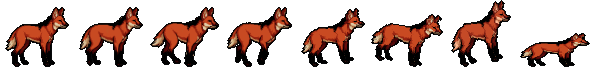
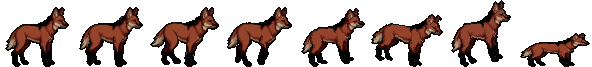
Acabamento das Minas, guará no HUD e chiados novos
- Minas: escoras de madeira com lampião no fundo no lugar das ruínas de castelo,
  torre de elevador com roldana e gaiola caída no lugar da torre de pedra, escora
  velha como lenha e sem pilar rúnico no chão; passos com som de pedra.
- Guará com cor e luz ajustadas à paleta dos bichos, segue um pouco mais atrás e
  aparece no HUD com nome, idade e barra de crescimento.
- Chiado de cobra e urro da Rainha Pálida (ElevenLabs).

diff --git a/js/desenho.js b/js/desenho.js
@@ -10,7 +10,7 @@
   const cam = (D.cam = { x: 0, y: 0, olha: 0 });
   let tempo = 0, noiteK = 0;
   const img = {}; // nome -> imagem
-  const carregaImg = (src, n) => new Promise((ok) => { const i = new Image(); i.onload = () => ok(i); i.onerror = () => { if ((n || 0) < 3) setTimeout(() => carregaImg(src, (n || 0) + 1).then(ok), 700); else { console.warn('faltou', src); ok(null); } }; i.src = src + '?v=23' + (n ? '&t=' + n : ''); });
+  const carregaImg = (src, n) => new Promise((ok) => { const i = new Image(); i.onload = () => ok(i); i.onerror = () => { if ((n || 0) < 3) setTimeout(() => carregaImg(src, (n || 0) + 1).then(ok), 700); else { console.warn('faltou', src); ok(null); } }; i.src = src + '?v=24' + (n ? '&t=' + n : ''); });
 
   D.iniciar = function (canvas) {
     cv = canvas; ctx = cv.getContext('2d');
@@ -113,7 +113,7 @@
   function camadaArvores(par, forca, passo, esc, sem) {
     const R = regiao(), off = cam.x * par, i0 = Math.floor(off / passo) - 2;
     for (let i = i0; i < i0 + Math.ceil(D.VW / passo) + 4; i++) {
-      const r1 = hash(i * 7 + sem), r2 = hash(i * 13 + sem), seca = ['zumbis', 'goblins', 'lobos'].includes(F.atual.regiao); if (R.semArvores) { if (r1 < 0.45) continue; const t2 = tingida(r2 < 0.5 ? 'pilar' : 'pedrao', F.atual.regiao, R.nevoa, forca); if (!t2) continue; const e2 = esc * 2.2 * (0.8 + r1 * 0.5), w2 = Math.round(t2.width * e2), h2 = Math.round(t2.height * e2), x2 = Math.round(i * passo - off + r2 * 90), y2 = Math.round(D.VH * 0.94 - (cam.y - 190) * par * 0.3); g.drawImage(t2, x2 - w2 / 2, y2 - h2, w2, h2); continue; }
+      const r1 = hash(i * 7 + sem), r2 = hash(i * 13 + sem), seca = ['zumbis', 'goblins', 'lobos'].includes(F.atual.regiao); if (R.semArvores) { if (r1 < 0.45) continue; const t2 = r2 < 0.55 ? escora(R, forca, r1 < 0.75) : tingida('pedrao', F.atual.regiao, R.nevoa, forca); if (!t2) continue; const e2 = esc * 2.2 * (0.8 + r1 * 0.5), w2 = Math.round(t2.width * e2), h2 = Math.round(t2.height * e2), x2 = Math.round(i * passo - off + r2 * 90), y2 = Math.round(D.VH * 0.94 - (cam.y - 190) * par * 0.3); g.drawImage(t2, x2 - w2 / 2, y2 - h2, w2, h2); continue; }
       if (r1 < (seca ? 0.5 : 0.12)) continue;
       const nome = r2 < 0.5 && !seca ? 'arvorao' : 'arvore';
       const t = tingida(nome, F.atual.regiao, R.nevoa, forca); if (!t) continue;
@@ -121,6 +121,17 @@
       const x = Math.round(i * passo - off + r2 * 90), y = Math.round(D.VH * 0.94 - (cam.y - 190) * par * 0.3);
       if (r2 * 7 % 1 < 0.5) { g.save(); g.translate(x, 0); g.scale(-1, 1); g.drawImage(t, -w / 2, y - h, w, h); g.restore(); } else g.drawImage(t, x - w / 2, y - h, w, h);
     }
+  }
+  // escora de mina ao longe (duas pernas, travessa, mãos-francesas e às vezes um lampião pendurado)
+  function escora(R, forca, luz) {
+    return guarda('esc' + R.nevoa + forca + luz, 44, 76, (q, w, h) => {
+      const nv = R.nevoa.split(',').map(Number), mix = (c, k) => 'rgb(' + c.map((v, i) => Math.round(v * (1 - forca) + nv[i] * forca * 0.75) * (k || 1) | 0).join(',') + ')';
+      q.fillStyle = mix([62, 45, 32]); q.fillRect(5, 6, 6, h - 6); q.fillRect(w - 11, 6, 6, h - 6); q.fillRect(1, 2, w - 2, 7);
+      q.fillStyle = mix([62, 45, 32], 0.7); q.fillRect(5, 9, 6, 2); q.fillRect(w - 11, 9, 6, 2); q.fillRect(1, 8, w - 2, 1);
+      q.fillStyle = mix([54, 39, 28]); for (let k = 0; k < 9; k++) { q.fillRect(11 + k, 9 + k, 2, 2); q.fillRect(w - 13 - k, 9 + k, 2, 2); }
+      q.fillStyle = mix([80, 60, 42]); q.fillRect(1, 2, w - 2, 1); q.fillRect(5, 6, 1, h - 6); q.fillRect(w - 11, 6, 1, h - 6);
+      if (luz) { q.fillStyle = mix([30, 26, 24]); q.fillRect(w / 2, 9, 1, 13); q.fillRect(w / 2 - 3, 22, 7, 8); q.fillStyle = 'rgba(255,176,90,' + (0.95 - forca * 0.5) + ')'; q.fillRect(w / 2 - 1, 24, 3, 4); q.fillStyle = 'rgba(255,150,70,' + (0.25 - forca * 0.15) + ')'; q.fillRect(w / 2 - 6, 19, 13, 14); }
+    });
   }
   function nevoa(R, a) {
     g.drawImage(guarda('nev' + R.nevoa + a, 2, 128, (q, w, h) => { const gr = q.createLinearGradient(0, 0, 0, h); gr.addColorStop(0, 'rgba(' + R.nevoa + ',0)'); gr.addColorStop(0.7, 'rgba(' + R.nevoa + ',' + a + ')'); gr.addColorStop(1, 'rgba(' + R.nevoa + ',' + a * 0.7 + ')'); q.fillStyle = gr; q.fillRect(0, 0, w, h); }), 0, D.VH * 0.3, D.VW, D.VH * 0.7);
@@ -527,7 +538,7 @@
     if (J.colhidos[c.id] > 0 || c.x < cam.x - 60 || c.x > cam.x + D.VW + 60) return;
     const p = COLETA[c.m];
     if (c.alto) { const b = Math.sin(tempo * 2.5 + c.x) * 1.5; peca('lenha', c.x, c.y + 3, { e: 0.36 }); itemEm(g, c.m, Math.round(c.x - 10), Math.round(c.y - 22 + b), 0.62); }
-    else if (c.m === 'madeira' && F.atual.regiao === 'minas') { prop('pilar', c.x, c.y + 3, { e: 0.55 }); peca('cepo', c.x + 14, c.y + 2, { e: 0.7 }); }
+    else if (c.m === 'madeira' && F.atual.regiao === 'minas') { const es = escora(regiao(), 0.05, false); g.drawImage(es, Math.round(c.x - es.width / 2), Math.round(c.y + 3 - es.height)); peca('cepo', c.x + 14, c.y + 2, { e: 0.7 }); }
     else if (c.m === 'madeira') { prop('arvore', c.x, c.y + 3, { e: 0.8 }); peca('cepo', c.x + 16, c.y + 2, { e: 0.8 }); if (c.talho) { g.fillStyle = '#e8c890'; g.fillRect(Math.round(c.x - 4), Math.round(c.y - 18), 4 + c.talho * 2, 3); } }
     else if (p) { prop(p, c.x, c.y + 2); if (c.m === 'fruta') for (let i = 0; i < 6; i++) { const x = c.x - 14 + hash(c.x + i) * 28, y = c.y - 8 - hash(c.x * 3 + i) * 22; g.fillStyle = '#1a0608'; g.fillRect(x - 1, y - 1, 4, 4); g.fillStyle = '#d83030'; g.fillRect(x, y, 2, 2); } }
     else itemEm(g, c.m, Math.round(c.x - 14), Math.round(c.y - 26), 0.82);
@@ -584,7 +595,25 @@
     if (x + w < cam.x - 10 || x - w > cam.x + D.VW + 10) return;
     g.save(); if (o.a != null) g.globalAlpha = o.a; g.translate(Math.round(x), Math.round(y)); if (o.v) g.scale(-1, 1); g.drawImage(img.casa, p[0], p[1], p[2], p[3], Math.round(-w / 2), -h, w, h); g.restore();
   }
+  // o elevador velho da mina: torre de madeira com roldana, corda partida e a gaiola caída
+  function elevador() {
+    return guarda('elevador', 76, 196, (q, w, h) => {
+      const c = (r, g2, b) => 'rgb(' + r + ',' + g2 + ',' + b + ')';
+      q.fillStyle = c(58, 42, 30); q.fillRect(10, 22, 7, h - 22); q.fillRect(w - 17, 22, 7, h - 22);
+      for (let y = 40; y < h - 20; y += 38) { q.fillRect(8, y, w - 16, 5); q.fillStyle = c(48, 34, 24); for (let k = 0; k < 30; k++) { q.fillRect(17 + k * 1.4, y + 5 + k, 2, 2); } q.fillStyle = c(58, 42, 30); }
+      q.fillStyle = c(84, 62, 42); q.fillRect(10, 22, 1, h - 22); q.fillRect(w - 17, 22, 1, h - 22);
+      q.fillStyle = c(52, 38, 27); q.fillRect(4, 18, w - 8, 7);
+      // roldana
+      q.fillStyle = c(46, 42, 40); q.beginPath(); q.arc(w / 2, 12, 11, 0, Math.PI * 2); q.fill(); q.fillStyle = c(24, 20, 18); q.beginPath(); q.arc(w / 2, 12, 6, 0, Math.PI * 2); q.fill();
+      q.fillStyle = c(96, 88, 80); q.fillRect(w / 2 - 1, 1, 2, 22); q.fillRect(w / 2 - 11, 11, 22, 2);
+      // corda partida
+      q.fillStyle = c(120, 96, 64); q.fillRect(w / 2 + 10, 12, 1, 70); q.fillRect(w / 2 + 9, 82, 3, 2);
+      // gaiola caída de lado no pé da torre
+      q.fillStyle = c(40, 36, 34); q.fillRect(14, h - 22, 34, 3); q.fillRect(14, h - 4, 34, 3); for (let k = 14; k <= 48; k += 6) q.fillRect(k, h - 22, 2, 21);
+    });
+  }
   function lugar(n, x, y, o) {
+    if (n === 'elevador') { const t = elevador(); if (x + 60 < cam.x || x - 60 > cam.x + D.VW) return; g.drawImage(t, Math.round(x - t.width / 2), Math.round(y - t.height)); return; }
     const p = A2.marcos && A2.marcos[n]; if (!p || !img.marcos) return; o = o || {}; const e = o.e || 1, w = Math.round(p[2] * e), h = Math.round(p[3] * e);
     if (x + w < cam.x - 10 || x - w > cam.x + D.VW + 10) return;
     g.save(); g.translate(Math.round(x), Math.round(y)); if (o.v) g.scale(-1, 1); g.drawImage(img.marcos, p[0], p[1], p[2], p[3], Math.round(-w / 2), -h, w, h); g.restore();

diff --git a/index.html b/index.html
@@ -14,7 +14,7 @@
 <link rel="preconnect" href="https://fonts.googleapis.com">
 <link rel="preconnect" href="https://fonts.gstatic.com" crossorigin>
 <link rel="stylesheet" href="https://fonts.googleapis.com/css2?family=Cinzel:wght@500;700;900&family=Crimson+Pro:ital,wght@0,400;0,600;1,400&display=swap">
-<link rel="stylesheet" href="css/jogo.css?v=23">
+<link rel="stylesheet" href="css/jogo.css?v=24">
 <script>
 // se um arquivo do jogo não vier (servidor ocupado), tenta de novo até quatro vezes em vez de travar
 addEventListener('error', function (e) {
@@ -38,6 +38,7 @@ addEventListener('error', function (e) {
       <div class="barra" id="b-sina" hidden><i></i></div>
       <div class="dupla"><i class="ico mini" id="ic-fome"></i><div class="barra" id="b-fome"><i></i></div><div id="h-tocha" hidden><i></i></div></div>
       <div id="h-magias"></div>
+      <div id="h-pet" hidden><span></span><div class="barra" id="b-pet"><i></i></div></div>
       <div id="h-hum" hidden><span></span><div class="barra" id="b-hum"><i></i></div><div class="barra" id="b-hfome"><i></i></div><div class="barra" id="b-laco"><i></i></div></div>
     </div>
   </div>
@@ -124,27 +125,27 @@ addEventListener('error', function (e) {
 <div id="veu"></div>
 <div id="cena" hidden><video id="cena-v" playsinline muted preload="auto"></video><div class="cena-txt"><b id="cena-t"></b><span id="cena-s"></span></div><button id="cena-pula">Pular</button></div>
 
-<script src="assets/barro/barro.js?v=23"></script>
-<script src="assets/barro/gente.js?v=23"></script>
-<script src="assets/floresta/arte.js?v=23"></script>
-<script src="assets/ui/ui.js?v=23"></script>
-<script src="assets/cenas/cenas.js?v=23"></script>
-<script src="js/som.js?v=23"></script>
-<script src="js/dados.js?v=23"></script>
-<script src="js/fase.js?v=23"></script>
-<script src="js/motor.js?v=23"></script>
-<script src="js/bando.js?v=23"></script>
-<script src="js/clima.js?v=23"></script>
-<script src="js/donos.js?v=23"></script>
-<script src="js/lar.js?v=23"></script>
-<script src="js/vila.js?v=23"></script>
-<script src="js/cidade.js?v=23"></script>
-<script src="js/mundo.js?v=23"></script>
-<script src="js/pet.js?v=23"></script>
-<script src="js/desenho.js?v=23"></script>
-<script src="js/vivo.js?v=23"></script>
-<script src="js/menu.js?v=23"></script>
-<script src="js/toque.js?v=23"></script>
-<script src="js/main.js?v=23"></script>
+<script src="assets/barro/barro.js?v=24"></script>
+<script src="assets/barro/gente.js?v=24"></script>
+<script src="assets/floresta/arte.js?v=24"></script>
+<script src="assets/ui/ui.js?v=24"></script>
+<script src="assets/cenas/cenas.js?v=24"></script>
+<script src="js/som.js?v=24"></script>
+<script src="js/dados.js?v=24"></script>
+<script src="js/fase.js?v=24"></script>
+<script src="js/motor.js?v=24"></script>
+<script src="js/bando.js?v=24"></script>
+<script src="js/clima.js?v=24"></script>
+<script src="js/donos.js?v=24"></script>
+<script src="js/lar.js?v=24"></script>
+<script src="js/vila.js?v=24"></script>
+<script src="js/cidade.js?v=24"></script>
+<script src="js/mundo.js?v=24"></script>
+<script src="js/pet.js?v=24"></script>
+<script src="js/desenho.js?v=24"></script>
+<script src="js/vivo.js?v=24"></script>
+<script src="js/menu.js?v=24"></script>
+<script src="js/toque.js?v=24"></script>
+<script src="js/main.js?v=24"></script>
 </body>
 </html>

diff --git a/js/fase.js b/js/fase.js
@@ -83,9 +83,9 @@
       // ruína: escada de pedra quebrada com um baú lá em cima
       ruina(nome, texto, loot) {
         if (y < 25) o.queda(25 - y).plano(4);
-        const x0 = x, yy = y; o.plano(26); o.marco('torre', nome, texto, -9);
+        const x0 = x, yy = y, mina = a.regiao === 'minas'; o.plano(26); o.marco(mina ? 'elevador' : 'torre', nome, texto, -9);
         o.galho(x0 + 4, yy - 4, 4).galho(x0 + 9, yy - 8, 4).galho(x0 + 4, yy - 12, 5);
-        a.decor.push({ n: 'pilar', x: px(x0 + 3), y: 0, c: 0, e: 1 }, { n: 'pilar', x: px(x0 + 13), y: 0, c: 0, e: 0.9 });
+        if (!mina) a.decor.push({ n: 'pilar', x: px(x0 + 3), y: 0, c: 0, e: 1 }, { n: 'pilar', x: px(x0 + 13), y: 0, c: 0, e: 0.9 });
         a.baus.push({ id: a.id + '_b' + a.baus.length, x: px(x0 + 6), tx: x0 + 6, y: (yy - 12) * T, loot: loot || null });
         return o.plano(4);
       },
@@ -112,7 +112,7 @@
     const dentro = (x) => a.escuros.some((q) => x > q.x0 - 30 && x < q.x1 + 30);
     const livre = (tx, larg) => { const y0 = a.topo[tx]; for (let k = -larg; k <= larg; k++) { const t = a.topo[Math.max(0, Math.min(W - 1, tx + k))]; if (Math.abs(t - y0) > 1) return false; } return true; };
     const perto = (x, l, d) => l.some((o) => Math.abs(o.x - x) < d);
-    const PLANTAS = { vale: ['samambaia', 'planta', 'pedras', 'frutas', 'tronco', 'planta'],  floresta: ['samambaia', 'planta', 'cogumelos', 'pedras', 'tronco', 'frutas'], lobos: ['pedras', 'pedrao', 'galhada', 'samambaia', 'ossos'], cobras: ['planta', 'samambaia', 'ninho', 'cogumelos', 'tronco', 'planta'], zumbis: ['lapide', 'lapide', 'ossos2', 'galhada', 'pilar', 'cogumelos'], goblins: ['totem', 'ossos', 'galhada', 'pedras', 'pedrao', 'ossos2'], minas: ['pedras', 'pedrao', 'ossos', 'pedras', 'ossos2', 'pilar'] }[a.regiao];
+    const PLANTAS = { vale: ['samambaia', 'planta', 'pedras', 'frutas', 'tronco', 'planta'],  floresta: ['samambaia', 'planta', 'cogumelos', 'pedras', 'tronco', 'frutas'], lobos: ['pedras', 'pedrao', 'galhada', 'samambaia', 'ossos'], cobras: ['planta', 'samambaia', 'ninho', 'cogumelos', 'tronco', 'planta'], zumbis: ['lapide', 'lapide', 'ossos2', 'galhada', 'pilar', 'cogumelos'], goblins: ['totem', 'ossos', 'galhada', 'pedras', 'pedrao', 'ossos2'], minas: ['pedras', 'pedrao', 'ossos', 'pedras', 'ossos2', 'tronco'] }[a.regiao];
     for (let tx = 4; tx < W - 4; tx += 2 + Math.floor(r() * 4)) {
       const x = tx * T + 8;
       if (perto(x, a.portas, 110) || perto(x, a.circulos, 100) || perto(x, a.fogos, 46) || perto(x, a.coleta, 26) || perto(x, a.baus, 34)) continue;

diff --git a/js/som.js b/js/som.js
@@ -10,6 +10,7 @@
     S.ambiente(alvoAmb); S.musica(alvoMus);
   };
   const BANCO = {
+    chiado: ['chiado1'], rainhaUrro: ['rainha1'],
     latido: ['latido1'], rosnado: ['rosnado1'], rocha: ['rocha_urro1'], ferro: ['ferro_urro1'], impacto: ['impacto1'], rastejar: ['rastejar1'],
     golpe: ['golpe1', 'golpe2', 'golpe3'], forte: ['forte1'], acerto: ['acerto1', 'acerto2', 'acerto3'], dor: ['heroi_dor1'],
     inimigoDor: ['dor1', 'dor2'], morte: ['morte1', 'morte2', 'morte3'], rugido: ['rugido1', 'rugido2'], uivo: ['uivo1'], mordida: ['mordida1', 'mordida2'],
@@ -26,14 +27,14 @@
     capataz: { alerta: ['ferro', 0.9, 1], ataque: ['impacto', 0.75, 0.9], dor: ['metal', 0.5, 0.8], morte: ['ferro', 1, 0.7] },
     lobo: { alerta: ['rugido', 0.4, 1.45], ataque: ['mordida', 0.35, 1.2], dor: ['fere', 0.4, 1.5], morte: ['morreu', 0.5, 1.5] },
     lobo_rubro: { alerta: ['urro', 0.5, 0.95], ataque: ['rugido', 0.5, 0.8], dor: ['fere', 0.5, 1], morte: ['morreu', 0.7, 0.95] },
-    cobra: { alerta: ['~chiado', 0.4, 1], ataque: ['~chiado', 0.5, 1.4], dor: ['~chiado', 0.35, 1.8], morte: ['lama', 0.5, 0.9] },
+    cobra: { alerta: ['chiado', 0.45, 1], ataque: ['chiado', 0.5, 1.25], dor: ['~chiado', 0.35, 1.8], morte: ['lama', 0.5, 0.9] },
     zumbi: { alerta: ['mor', 0.45, 0.8], ataque: ['mor', 0.35, 0.95], dor: ['mor', 0.3, 1.15], morte: ['mor', 0.5, 0.62] },
     zumbi_mulher: { alerta: ['mor', 0.6, 1.55], ataque: ['mor', 0.4, 1.7], dor: ['mor', 0.35, 1.9], morte: ['mor', 0.5, 1.2] },
     zumbi_inchado: { alerta: ['ogro', 0.45, 0.7], ataque: ['ogro', 0.5, 0.62], dor: ['lama', 0.5, 0.7], morte: ['lama', 0.8, 0.5] },
     goblin: { alerta: ['gob', 0.4, 1.5], ataque: ['gob', 0.3, 1.8], dor: ['gob', 0.35, 1.95], morte: ['gob', 0.5, 1.25] },
     goblin_porrete: { alerta: ['ogro', 0.5, 1], ataque: ['ogro', 0.5, 0.85], dor: ['ogro', 0.4, 1.25], morte: ['ogro', 0.6, 0.72] },
     alfa: { alerta: ['lobisomem', 0.8, 0.8], ataque: ['urro', 0.5, 0.9], dor: ['fere', 0.4, 0.85], morte: ['lobisomem', 0.9, 0.6] },
-    rainha: { alerta: ['~chiado', 0.9, 0.55], ataque: ['~chiado', 0.7, 0.8], dor: ['~chiado', 0.5, 1.2], morte: ['urro', 0.8, 1.5] },
+    rainha: { alerta: ['rainhaUrro', 0.9, 1], ataque: ['chiado', 0.75, 0.7], dor: ['~chiado', 0.5, 1.2], morte: ['rainhaUrro', 1, 0.75] },
     carcereiro: { alerta: ['mor', 0.8, 0.5], ataque: ['mor', 0.5, 0.6], dor: ['metal', 0.4, 0.7], morte: ['mor', 0.9, 0.42] },
     chefe: { alerta: ['gig', 0.8, 0.95], ataque: ['gig', 0.5, 1.15], dor: ['ogro', 0.45, 0.9], morte: ['gig', 0.9, 0.7] },
   };

diff --git a/js/main.js b/js/main.js
@@ -379,6 +379,7 @@
     UI.passoArmas(); UI.passoTrilho(0.06); UI.passoMeta(0.06); if (toque) UI.passoToque();
     const ve = h.veneno > 0 ? 'veneno' : s.fome < 15 ? 'fome' : ''; if ($('h-estado').className !== ve) $('h-estado').className = ve;
     const tdia = 'Dia ' + s.dia + ' · ' + J.nomeHora() + (J.clima.tipo !== 'limpo' && J.clima.forca > 0.3 ? ' · ' + J.NOMECLIMA[J.clima.tipo] : '') + (J.raid ? ' · onda ' + Math.max(1, J.raid.n + 1) + ' de ' + J.raid.total : ''); if ($('h-dia').lastChild.textContent !== tdia) { $('h-dia').lastChild.textContent = tdia; $('h-dia').classList.toggle('noite', J.ehNoite()); UI.troca($('ic-dia'), J.ehNoite() ? 'lua' : 'sol'); }
+    { const pt = s.pet, el = $('h-pet'); el.hidden = !(pt && J.pet); if (pt && J.pet) { const nv = J.nivelPet(), t = pt.nome + ' · ' + ['', 'filhote', 'jovem', 'adulto'][nv]; if (el.dataset.t !== t) { el.dataset.t = t; el.firstElementChild.textContent = t; } $('b-pet').children[0].style.width = nv >= 3 ? '100%' : pc((pt.xp || 0) % 60, 60); } }
     const H = s.hum, hv = H && J.hum && !J.hum.perdida; $('h-hum').hidden = !hv; if (hv) { $('h-hum').firstElementChild.textContent = H.nome + (J.hum.caida ? ' caiu!' : ''); $('b-hum').children[0].style.width = pc(J.hum.hp, J.hum.hpMax); $('b-hfome').children[0].style.width = pc(H.fome, 100); $('b-laco').children[0].style.width = pc(H.laco, 100); }
     for (const d of $('h-magias').children) { const M = C.MAGIAS[d.dataset.id]; d.classList.toggle('falta', h.sina < M.custo); d.lastChild.style.transform = 'scaleY(' + Math.min(1, (h.espera[d.dataset.id] || 0) / M.espera) + ')'; }
     const c = J.chefeAtivo; $('chefe').hidden = !c; $('h-meta').classList.toggle('some', !!c); if (c) { $('chefe-nome').textContent = c.T.nome; const b = $('b-chefe'); b.children[0].style.width = b.children[1].style.width = pc(c.hp, c.hpMax); }

diff --git a/js/motor.js b/js/motor.js
@@ -537,7 +537,7 @@
   // o pé muda com o chão: mato, lama, neve, pedra, terra batida e madeira
   function passo(h) {
     const r = F.atual.regiao, galho = tipoEm(h.x, h.y + 2) === 2, w = window.Som; if (!w) return;
-    if (galho) som('madeira', 0.12, 1.5); else if (J.abrigado && J.abrigado()) som('passop', 0.3, 1); else if (r === 'cobras' || (J.cl && J.cl('chuva', 'tempestade') > 0.6)) som('lama', 0.2, 1.3); else if (r === 'lobos') w.sopro('neve'); else if (r === 'zumbis') som('passop', 0.22, 0.85); else if (r === 'goblins') w.sopro('terra'); else w.sopro('mato');
+    if (galho) som('madeira', 0.12, 1.5); else if (J.abrigado && J.abrigado()) som('passop', 0.3, 1); else if (r === 'cobras' || (J.cl && J.cl('chuva', 'tempestade') > 0.6)) som('lama', 0.2, 1.3); else if (r === 'lobos') w.sopro('neve'); else if (r === 'zumbis') som('passop', 0.22, 0.85); else if (r === 'minas') som('pedra', 0.07, 1.7 + Math.random() * 0.3); else if (r === 'goblins') w.sopro('terra'); else w.sopro('mato');
     if (['osso', 'prata'].includes(J.save.roupa) && Math.random() < 0.5) som('malha', 0.09, J.save.roupa === 'osso' ? 1.6 : 1.1);
   }
   function beiraEspinho(h) { for (const dx of [-26, 26]) if (tipoEm(h.x + dx, h.y + 70) === 3 || tipoEm(h.x + dx, h.y + 2) === 3 || tipoEm(h.x + dx, h.y + 2) === 0) return true; return false; }

diff --git a/js/pet.js b/js/pet.js
@@ -67,7 +67,7 @@
       // traz o que achar no chão
       if (!p && P.vai == null && P.cdColhe <= 0) { P.cdColhe = 8 - nv; const c = F.atual.coleta.find((q) => !(J.colhidos[q.id] > 0) && q.m !== 'madeira' && !q.alto && Math.abs(q.x - P.x) < 150 && Math.abs(q.y - P.y) < 40); if (c) P.vai = c; }
       if (P.vai) { const c = P.vai; if (J.colhidos[c.id] > 0 || p) P.vai = null; else { alvo = c.x; if (Math.abs(c.x - P.x) < 10) { J.colhidos[c.id] = 150; J.ganha(c.m, 1, P.x, P.y - 20); P.vai = null; } } }
-      if (alvo == null && Math.abs(h.x - P.x) > 48) alvo = h.x - h.dir * 32;
+      if (alvo == null && Math.abs(h.x - P.x) > 56) alvo = h.x - h.dir * 42;
     }
     const dx = alvo == null ? 0 : alvo - P.x, vel = k.CORRE * 1.18;
     if (P.tDor > 0.9) { /* voando para trás */ } else if (Math.abs(dx) > 6) { P.dir = Math.sign(dx); P.vx = P.dir * Math.min(vel, Math.abs(dx) * 5 + 30); } else P.vx *= Math.pow(0.001, dt);

diff --git a/css/jogo.css b/css/jogo.css
@@ -210,3 +210,6 @@ canvas.bicho { image-rendering: pixelated; flex: none; width: 54px; height: 46px
 .fundo video { position: absolute; inset: 0; width: 100%; height: 100%; object-fit: cover; image-rendering: pixelated; }
 
 #usar.chama { animation: chama 1.2s ease-in-out infinite; } #usar.chama.surge { animation: sobeU .2s ease-out, chama 1.2s ease-in-out .2s infinite; } .toque #usar.chama.surge { animation: sobeT .2s ease-out, chama 1.2s ease-in-out .2s infinite; } @keyframes chama { 50% { filter: brightness(1.25) drop-shadow(0 0 10px #ff9a40); } }
+
+/* companheiro (guará) */
+#h-pet { width: 150px; margin-top: 6px; font: 600 11px Cinzel, serif; color: #f2c89a; text-shadow: 0 1px 3px #000; } #h-pet .barra { height: 4px; margin: 3px 0 0 2px; } #b-pet i { background: linear-gradient(#ffb070, #b4582a); }

diff --git a/sw.js b/sw.js
@@ -1,6 +1,6 @@
 /* SINA · guarda o jogo no aparelho: abre sem internet e carrega na hora da segunda vez em diante.
    A página sempre tenta a rede primeiro (para pegar versão nova); o resto vem da memória quando já veio uma vez. */
-const VERSAO = 'sina-23';
+const VERSAO = 'sina-24';
 self.addEventListener('install', (e) => { self.skipWaiting(); e.waitUntil(caches.open(VERSAO).then((c) => c.addAll(['./', './index.html']).catch(() => {}))); });
 self.addEventListener('activate', (e) => { e.waitUntil(caches.keys().then((l) => Promise.all(l.filter((k) => k !== VERSAO).map((k) => caches.delete(k)))).then(() => self.clients.claim())); });
 self.addEventListener('fetch', (e) => {

diff --git a/tools/lateral-guara.py b/tools/lateral-guara.py
@@ -5,7 +5,7 @@ Grava m_guara.webp (parado, 3 passos, prepara, morde, ferido, deitado) e m_guara
 import importlib.util, json
 from pathlib import Path
 import numpy as np
-from PIL import Image
+from PIL import Image, ImageEnhance
 
 AQUI = Path(__file__).parent
 sp = importlib.util.spec_from_file_location("lv", AQUI / "lateral-variantes.py")
@@ -36,6 +36,10 @@ def tira(nome, qs, meta, chave=None):
     T = Image.new("RGBA", (w * len(qs), h))
     for i, q in enumerate(qs):
         T.paste(q, (i * w + (w - q.width) // 2, h - 1 - q.height), q)
+    # o Retro Diffusion pinta mais vivo que o resto do jogo: puxa a cor e a luz para a paleta dos bichos
+    al = T.getchannel("A")
+    T = ImageEnhance.Brightness(ImageEnhance.Color(T.convert("RGB")).enhance(0.74)).enhance(0.84).convert("RGBA")
+    T.putalpha(al)
     la.contorno(T).save(DEST / f"m_{nome}.webp", lossless=True, method=6)
     return {"w": w, "h": h, "n": len(qs)}
 
